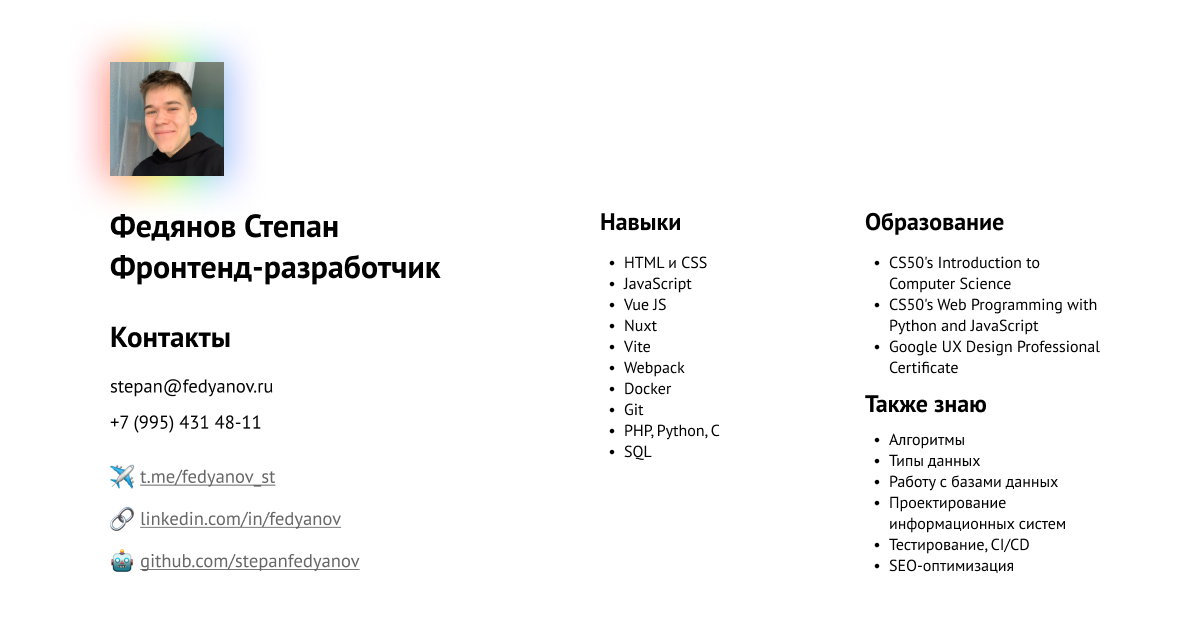
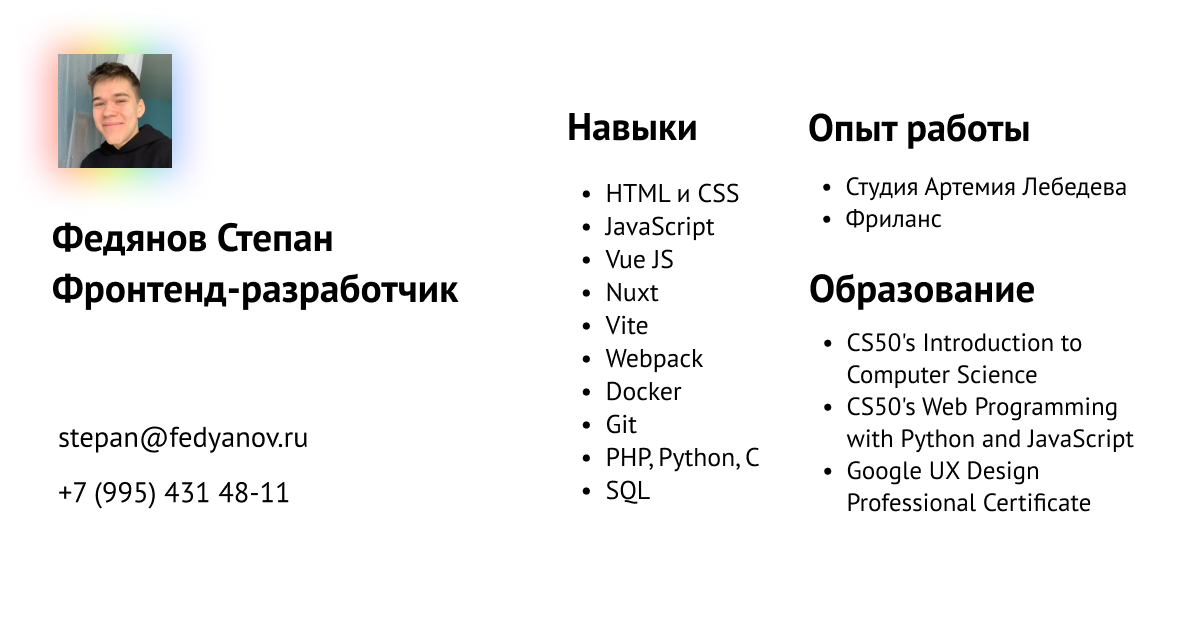
Add new ogImages and change SEO text

diff --git a/pages/index.vue b/pages/index.vue
@@ -16,9 +16,9 @@ export default {
       title: 'Федянов Степан – Фронтенд-разработчик | Резюме',
       ogTitle: 'Федянов Степан – Фронтенд-разработчик | Резюме',
       description:
-        'Занимаюсь фронтенд-разработкой с 2019 года. Два года работал на фрилансе, участвовал в разработке крупных проектах, а также доработкой и рефакторингом существующих решений у клиентов. В свободное от работы время занимаюсь спортом, читаю.',
+        'Фронтенд-разработчик на VueJS. Прохожу стажировку в Студии Артемия Лебедева. Два года работал на фрилансе, участвовал в разработке крупных проектах, а также доработкой и рефакторингом существующих решений у клиентов. В свободное от работы время занимаюсь спортом, читаю.',
       ogDescription:
-        'Занимаюсь фронтенд-разработкой с 2019 года. Два года работал на фрилансе, участвовал в разработке крупных проектах, а также доработкой и рефакторингом существующих решений у клиентов. В свободное от работы время занимаюсь спортом, читаю.',
+        'Фронтенд-разработчик на VueJS. Прохожу стажировку в Студии Артемия Лебедева. Два года работал на фрилансе, участвовал в разработке крупных проектах, а также доработкой и рефакторингом существующих решений у клиентов. В свободное от работы время занимаюсь спортом, читаю.',
       ogImage: '/ogImage.png',
       twitterCard: 'summary_large_image',
     });

diff --git a/pages/en/index.vue b/pages/en/index.vue
@@ -16,9 +16,9 @@ export default {
       title: 'Fedyanov Stepan – Frontend Developer | CV',
       ogTitle: 'Fedyanov Stepan – Frontend Developer | CV',
       description:
-        'I have been working in frontend development since 2019. For two years, I worked as a freelancer, participated in the development of large projects, as well as the enhancement and refactoring of existing solutions for clients. In my free time, I enjoy sports and reading.',
+        'Frontend developer at VueJS. I am currently an intern at the Art. Lebedev Studio. I have been working as a freelancer for two years, participating in the development of large projects, as well as updating and refactoring existing solutions for clients. In my free time, I enjoy sports and reading.',
       ogDescription:
-        'I have been working in frontend development since 2019. For two years, I worked as a freelancer, participated in the development of large projects, as well as the enhancement and refactoring of existing solutions for clients. In my free time, I enjoy sports and reading.',
+        'Frontend developer at VueJS. I am currently an intern at the Art. Lebedev Studio. I have been working as a freelancer for two years, participating in the development of large projects, as well as updating and refactoring existing solutions for clients. In my free time, I enjoy sports and reading.',
       ogImage: '/ogImageEn.png',
       twitterCard: 'summary_large_image',
     });
